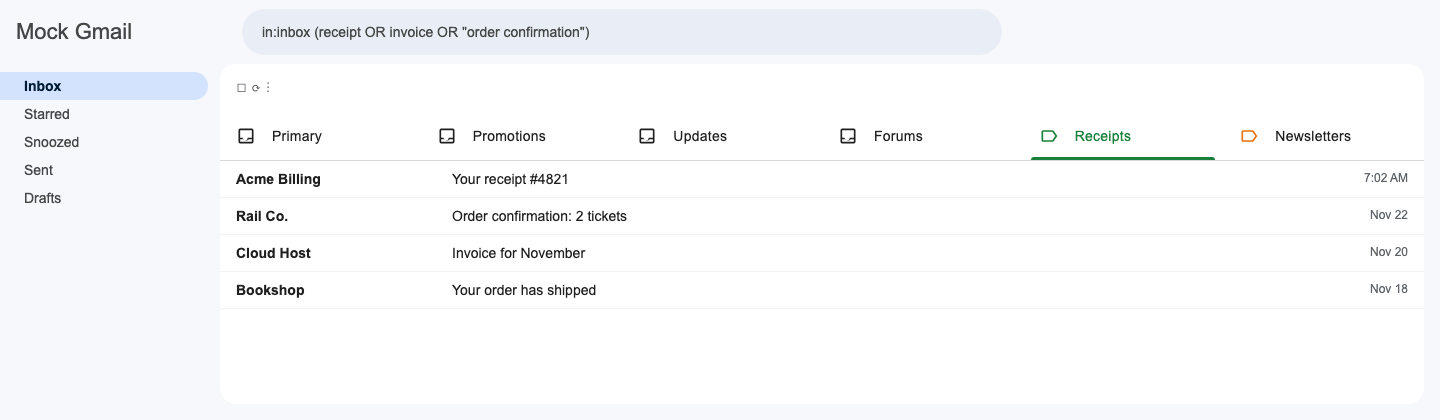
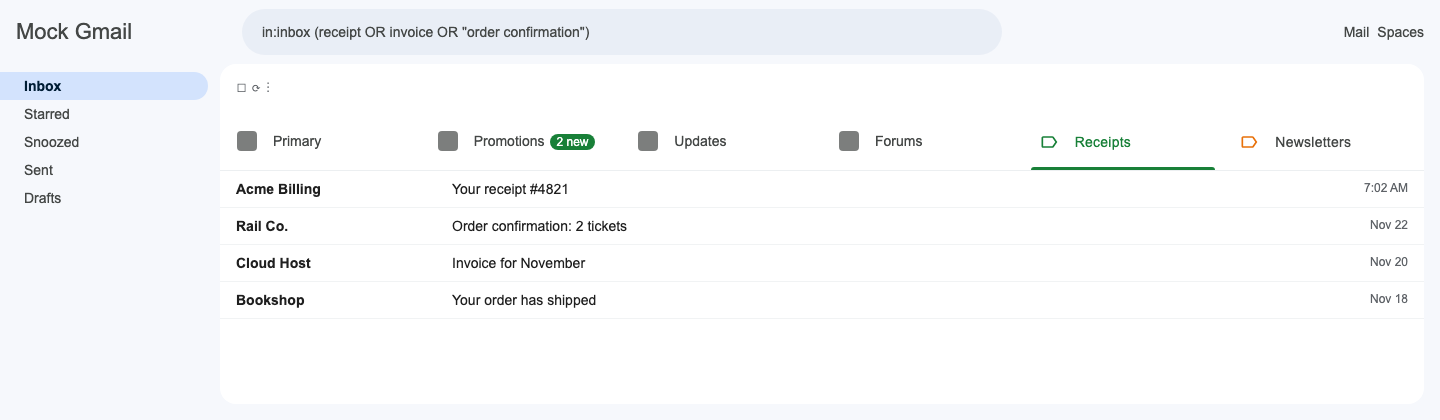
Mirror Gmail's real tab bar on custom tab results (#1)
On search results Gmail hides its inbox view but keeps the category tab
bar in the DOM. Clone that bar (scrubbed of ids/jsaction) instead of
drawing look-alike tabs, so Primary/Promotions/etc. keep Gmail's own
icons, spacing, "N new" badges and sender previews. Gmail's selected
styling is removed by diffing the selected tab's classes against the
others. Falls back to the drawn strip if the bar can't be found.

diff --git a/test/fixture/gmail-mock.html b/test/fixture/gmail-mock.html
@@ -26,9 +26,12 @@
   table.tabs { width: 100%; border-collapse: collapse; table-layout: fixed; border-bottom: 1px solid rgba(100,121,143,.12); }
   table.tabs td { width: 255px; }
   [role="tab"].nt { display: flex; align-items: center; gap: 16px; height: 56px; padding: 0 16px; color: #444746; font: 500 14px "Google Sans", Arial; cursor: pointer; position: relative; }
-  [role="tab"].nt[aria-selected="true"] { color: #0b57d0; }
-  [role="tab"].nt[aria-selected="true"]::after { content: ""; position: absolute; left: 8px; right: 8px; bottom: 0; height: 3px; background: #0b57d0; border-radius: 3px 3px 0 0; }
+  /* Like Gmail, "selected" is an obfuscated class, not just aria-selected. */
+  .nt.sel { color: #0b57d0; }
+  .nt.sel::after { content: ""; position: absolute; left: 8px; right: 8px; bottom: 0; height: 3px; background: #0b57d0; border-radius: 3px 3px 0 0; }
   .nt i { width: 20px; height: 20px; border-radius: 4px; background: currentColor; opacity: .7; }
+  .nt .badge { margin-left: 6px; padding: 1px 6px; border-radius: 8px; background: #188038; color: #fff; font-size: 12px; }
+  .decoy { display: flex; gap: 8px; margin-left: auto; color: #444746; }
   .row { display: grid; grid-template-columns: 200px 1fr 80px; gap: 16px; padding: 10px 16px; border-bottom: 1px solid #f1f3f4; }
   .row b { font-weight: 700; }
   .row span:last-child { text-align: right; color: #5f6368; font-size: 12px; }
@@ -37,15 +40,16 @@
 </head>
 <body>
 <div class="app">
-  <div class="top"><div class="logo">Mock Gmail</div><div class="search" id="searchbox">Search mail</div></div>
+  <div class="top"><div class="logo">Mock Gmail</div><div class="search" id="searchbox">Search mail</div>
+    <div class="decoy" role="tablist"><div role="tab" aria-selected="true">Mail</div><div role="tab">Spaces</div></div></div>
   <nav><div class="on">Inbox</div><div>Starred</div><div>Snoozed</div><div>Sent</div><div>Drafts</div></nav>
   <div class="panel">
     <div class="toolbar" gh="mtb">☐ ⟳ ⋮</div>
     <div role="main">
       <div id="inbox-view">
         <table class="tabs"><tbody><tr role="tablist" id="native">
-          <td role="heading"><div class="nt" role="tab" aria-label="Primary" aria-selected="true"><i></i><div data-tooltip="Primary">Primary</div></div></td>
-          <td role="heading"><div class="nt" role="tab" aria-label="Promotions" aria-selected="false"><i></i><div data-tooltip="Promotions">Promotions</div></div></td>
+          <td role="heading"><div class="nt sel" role="tab" id="t-primary" jsaction="click:tab" aria-label="Primary" aria-selected="true"><i></i><div data-tooltip="Primary">Primary</div></div></td>
+          <td role="heading"><div class="nt" role="tab" id="t-promos" jsaction="click:tab" aria-label="Promotions" aria-selected="false"><i></i><div data-tooltip="Promotions">Promotions<span class="badge" id="promo-badge">2 new</span></div></div></td>
           <td role="heading"><div class="nt" role="tab" aria-label="Updates" aria-selected="false"><i></i><div data-tooltip="Updates">Updates</div></div></td>
           <td role="heading"><div class="nt" role="tab" aria-label="Forums" aria-selected="false"><i></i><div data-tooltip="Forums">Forums</div></div></td>
         </tr></tbody></table>
@@ -73,7 +77,10 @@
     const tab = e.target.closest('[role="tab"]');
     if (!tab) return;
     window.__nativeClicks = (window.__nativeClicks || 0) + 1;
-    document.querySelectorAll('#native [role="tab"]').forEach((t) => t.setAttribute('aria-selected', String(t === tab)));
+    document.querySelectorAll('#native [role="tab"]').forEach((t) => {
+      t.setAttribute('aria-selected', String(t === tab));
+      t.classList.toggle('sel', t === tab);
+    });
   });
   function route() {
     const search = location.hash.startsWith('#search/');
@@ -128,26 +135,43 @@
     check('hash set to search', CGT.queryFromHash(location.hash) === 'in:inbox (receipt OR invoice OR "order confirmation")', location.hash);
     check('click did not reach Gmail tablist handler', !window.__nativeClicks, window.__nativeClicks);
 
-    // 3. On results, our strip shows with the custom tab selected.
+    // 3. On results, a live copy of Gmail's tab bar shows, with the custom tab selected.
     const strip = document.querySelector('[role="main"] > .cgt-strip');
     check('strip shown on results', !!strip);
-    const stripTabs = strip ? Array.from(strip.querySelectorAll('.cgt-tab')) : [];
-    check('strip has native + custom', stripTabs.map((t) => t.textContent).join('|') === 'Primary|Promotions|Updates|Forums|Receipts|Newsletters', stripTabs.map((t) => t.textContent));
-    check('custom tab selected in strip', stripTabs[4] && stripTabs[4].getAttribute('aria-selected') === 'true');
+    check("strip is a copy of Gmail's bar", strip && strip.classList.contains('cgt-mirror') && !!strip.querySelector('table.tabs'));
+    const label = (t) => t.getAttribute('aria-label') || t.textContent;
+    const stripTabs = () => Array.from(document.querySelectorAll('.cgt-strip [role="tab"]'));
+    check('strip has native + custom', stripTabs().map(label).join('|') === 'Primary|Promotions|Updates|Forums|Receipts|Newsletters', stripTabs().map(label));
+    check('custom tab selected in strip', stripTabs()[4] && stripTabs()[4].getAttribute('aria-selected') === 'true');
+    const copyPrimary = stripTabs()[0];
+    check('Gmail selected styling cleared on copy', copyPrimary && !copyPrimary.classList.contains('sel') && copyPrimary.getAttribute('aria-selected') === 'false', copyPrimary && copyPrimary.className);
+    check('copy keeps Gmail classes', copyPrimary && copyPrimary.classList.contains('nt'));
+    check('copy has no ids or jsaction', strip && !strip.querySelector('[id], [jsaction]'));
+    check('copy shows Gmail badges', strip && strip.textContent.includes('2 new'));
+    check('real tab bar untouched', document.querySelector('#t-primary').classList.contains('sel') && !document.querySelector('#native .cgt-cell'));
+
+    // Badge changes in Gmail's hidden bar flow into the copy.
+    document.getElementById('promo-badge').textContent = '5 new';
+    await sleep(150);
+    const strip2 = document.querySelector('.cgt-strip');
+    check('copy follows live badge counts', strip2 && strip2.textContent.includes('5 new'));
 
     // 4. Switching between custom tabs via the strip.
-    stripTabs[5].click();
+    stripTabs()[5].click();
     await sleep(150);
     check('second custom tab opens', CGT.queryFromHash(location.hash) === 'in:inbox unsubscribe', location.hash);
-    const sel = document.querySelector('.cgt-strip .cgt-tab[aria-selected="true"]');
+    const sel = document.querySelector('.cgt-strip [role="tab"][aria-selected="true"]');
     check('strip selection follows', sel && sel.textContent === 'Newsletters', sel && sel.textContent);
 
     // 5. Going back to a Gmail category from the strip clicks the real tab.
-    Array.from(document.querySelectorAll('.cgt-strip .cgt-tab'))[1].click();
+    stripTabs()[1].click();
     await sleep(250);
     check('back to inbox', location.hash === '#inbox', location.hash);
     check('strip removed on inbox', !document.querySelector('.cgt-strip'));
-    check('Promotions selected', document.querySelector('#native [aria-label="Promotions"]').getAttribute('aria-selected') === 'true');
+    const promos = document.querySelector('#native [aria-label="Promotions"]');
+    check('Promotions selected', promos.getAttribute('aria-selected') === 'true' && promos.classList.contains('sel'));
+    check('custom tabs back in real bar', $$('#native > .cgt-cell').length === 2);
+    check('decoy tablist untouched', !document.querySelector('.decoy .cgt-cell'));
 
     // 6. Editing tabs in storage updates Gmail live.
     await chrome.storage.sync.set({ tabs: [...__shim.areas.sync.tabs, { id: 'x', label: 'Starred', query: 'is:starred', color: '#f9ab00' }] });

diff --git a/src/content/content.js b/src/content/content.js
@@ -248,10 +248,14 @@
   }
 
   function cleanTablists() {
-    const cells = document.querySelectorAll('.cgt-cell[data-cgt]');
+    // Only Gmail's own bar; the cloned bar in our strip manages itself.
+    const outside = (el) => !el.closest('.cgt-strip');
+    const cells = Array.from(document.querySelectorAll('.cgt-cell[data-cgt]')).filter(outside);
     for (const c of cells) c.remove();
     for (const l of document.querySelectorAll('[role="tablist"][data-cgt-sig]')) l.removeAttribute('data-cgt-sig');
-    if (cells.length) for (const t of document.querySelectorAll('.cgt-fit')) t.classList.remove('cgt-fit');
+    if (cells.length) {
+      for (const t of document.querySelectorAll('.cgt-fit')) if (outside(t)) t.classList.remove('cgt-fit');
+    }
     return cells.length > 0;
   }
 
@@ -262,6 +266,134 @@
     for (const s of strips) s.remove();
     return strips.length > 0;
   }
+
+  // ---------- Surface 2a: a live copy of Gmail's (hidden) tab bar ----------
+  //
+  // On search results Gmail hides the inbox view but keeps its tab bar in the
+  // DOM, with up-to-date icons, "N new" badges and sender previews. Cloning it
+  // gives a bar that looks exactly like the real one; we only clear Gmail's
+  // "selected" styling from it and append our tabs.
+
+  const SCRUB_ATTR = /^(id|js[a-z]*|tabindex|aria-(controls|owns|labelledby|describedby))$/i;
+  let mirrorBroken = false; // Clone turned out invisible (Gmail CSS changed?) — use the drawn strip.
+
+  /** Gmail's tab bar wherever it is (usually hidden), matched by its remembered labels. */
+  function findHiddenNativeTablist() {
+    if (!nativeLabels.length) return null;
+    const want = nativeLabels.join('\n');
+    for (const list of document.querySelectorAll('[role="tablist"]')) {
+      if (list.closest('[data-cgt]')) continue;
+      if (nativeTabsIn(list).map(nativeLabel).join('\n') === want) return list;
+    }
+    return null;
+  }
+
+  /** [tab, its parent, ..., its cell] — the elements between a tab and the tablist. */
+  function chainTo(el, list) {
+    const out = [];
+    for (let e = el; e && e !== list; e = e.parentElement) out.push(e);
+    return out;
+  }
+
+  /**
+   * Classes that only the selected tab (or its wrappers) carries, by depth.
+   * Gmail marks the selected tab with obfuscated classes; diffing against the
+   * unselected tabs finds them without hard-coding names.
+   */
+  function selectionClasses(native, list) {
+    const sel = native.find((t) => t.getAttribute('aria-selected') === 'true');
+    if (!sel) return [];
+    const others = native.filter((t) => t !== sel).map((t) => chainTo(t, list));
+    return chainTo(sel, list).map((el, depth) => {
+      const seen = new Set();
+      for (const chain of others) if (chain[depth]) chain[depth].classList.forEach((c) => seen.add(c));
+      return Array.from(el.classList).filter((c) => !seen.has(c));
+    });
+  }
+
+  function scrub(root) {
+    for (const el of [root, ...root.querySelectorAll('*')]) {
+      for (const a of Array.from(el.attributes)) if (SCRUB_ATTR.test(a.name)) el.removeAttribute(a.name);
+    }
+  }
+
+  /** Returns true/false (wrote or not), or null when mirroring isn't possible. */
+  function renderMirror(main, activeId) {
+    if (mirrorBroken) return null;
+    const src = findHiddenNativeTablist();
+    if (!src) return null;
+    const native = nativeTabsIn(src);
+    const selIndex = native.findIndex((t) => t.getAttribute('aria-selected') === 'true');
+    const sig = C.signature(tabs, JSON.stringify(['mirror', activeId, selIndex, src.textContent]));
+    const current = main.querySelector(':scope > .cgt-strip');
+    if (current && current.getAttribute('data-cgt-sig') === sig && main.firstElementChild === current) return false;
+
+    const sourceRoot = src.closest('table') || src;
+    const clone = sourceRoot.cloneNode(true);
+    for (const n of clone.querySelectorAll('[data-cgt]')) n.remove();
+    clone.classList.remove('cgt-fit');
+    scrub(clone);
+    const list = clone.matches('[role="tablist"]') ? clone : clone.querySelector('[role="tablist"]');
+    const cloneTabs = list ? nativeTabsIn(list) : [];
+    if (cloneTabs.length !== native.length) return null;
+    list.removeAttribute('data-cgt-sig');
+
+    // Clear Gmail's selected styling: whatever Primary (or the current
+    // category) had that the others don't.
+    if (selIndex >= 0) {
+      const classes = selectionClasses(native, src);
+      chainTo(cloneTabs[selIndex], list).forEach((el, depth) => {
+        for (const c of classes[depth] || []) el.classList.remove(c);
+      });
+    }
+    cloneTabs.forEach((t, i) => {
+      t.setAttribute('aria-selected', 'false');
+      t.setAttribute('tabindex', '0');
+      swallow(t);
+      t.addEventListener('click', (e) => {
+        e.preventDefault();
+        openNative(i);
+      });
+      t.addEventListener('keydown', (e) => {
+        if (e.key === 'Enter' || e.key === ' ') {
+          e.preventDefault();
+          openNative(i);
+        }
+      });
+    });
+
+    removeStrip();
+    const strip = document.createElement('div');
+    strip.className = 'cgt-strip cgt-mirror';
+    strip.setAttribute('data-cgt', 'strip');
+    strip.setAttribute('data-cgt-sig', sig);
+    strip.appendChild(clone);
+    main.prepend(strip);
+
+    if (!isVisible(list) || list.getBoundingClientRect().height < 10) {
+      strip.remove();
+      mirrorBroken = true;
+      return null;
+    }
+
+    const lastCell = cellFor(cloneTabs[cloneTabs.length - 1], list);
+    const tag = lastCell.tagName.toLowerCase();
+    const frag = document.createDocumentFragment();
+    for (const t of tabs) {
+      const cell = document.createElement(tag);
+      cell.setAttribute('data-cgt', t.id);
+      cell.className = 'cgt-cell';
+      if (tag === 'td') cell.setAttribute('role', 'heading');
+      themeFrom(cloneTabs[0], cell);
+      cell.appendChild(customTab(t, t.id === activeId));
+      frag.appendChild(cell);
+    }
+    lastCell.after(frag);
+    fitTablist(list);
+    return true;
+  }
+
+  // ---------- Surface 2b: a drawn strip (fallback) ----------
 
   function renderStrip(main, activeId, inboxActive) {
     const labels = nativeLabels.length ? nativeLabels : ['Inbox'];
@@ -329,7 +461,9 @@
     const bareInbox = C.isInboxHash(hash) && nativeLabels.length <= 1 && !pendingNative;
 
     if (main && tabs.length && settings.showStripOnResults && (onResults || bareInbox)) {
-      wrote = renderStrip(main, active ? active.id : null, !active) || wrote;
+      const mirrored = active ? renderMirror(main, active.id) : null;
+      if (mirrored === null) wrote = renderStrip(main, active ? active.id : null, !active) || wrote;
+      else wrote = mirrored || wrote;
     } else {
       wrote = removeStrip() || wrote;
     }

diff --git a/test/e2e.test.js b/test/e2e.test.js
@@ -45,6 +45,6 @@ test('content script works against a mock Gmail DOM', { skip: !chrome && 'no Chr
   const decoded = m[1].replace(/&quot;/g, '"').replace(/&lt;/g, '<').replace(/&gt;/g, '>').replace(/&amp;/g, '&');
   const results = JSON.parse(decoded);
   const failed = results.filter((r) => !r.ok);
-  assert.ok(results.length >= 17, `expected all checks to run, got ${results.length}`);
+  assert.ok(results.length >= 29, `expected all checks to run, got ${results.length}`);
   assert.deepEqual(failed, [], 'failed checks:\n' + JSON.stringify(failed, null, 2));
 });

diff --git a/src/content/content.css b/src/content/content.css
@@ -117,3 +117,20 @@ table.cgt-fit [role="tab"] {
 .cgt-strip .cgt-tab:not([style*="--cgt-color"]).cgt-active {
   color: #0b57d0;
 }
+
+/* Cloned Gmail tab bar: keep Gmail's own look, only reset what .cgt-strip adds. */
+.cgt-strip.cgt-mirror {
+  color: inherit;
+  border-bottom: 0;
+  overflow: visible;
+}
+
+.cgt-strip.cgt-mirror .cgt-tab {
+  flex: initial;
+  min-width: 0;
+  height: var(--cgt-height, 48px);
+}
+
+.cgt-mirror [role="tab"] {
+  cursor: pointer;
+}
